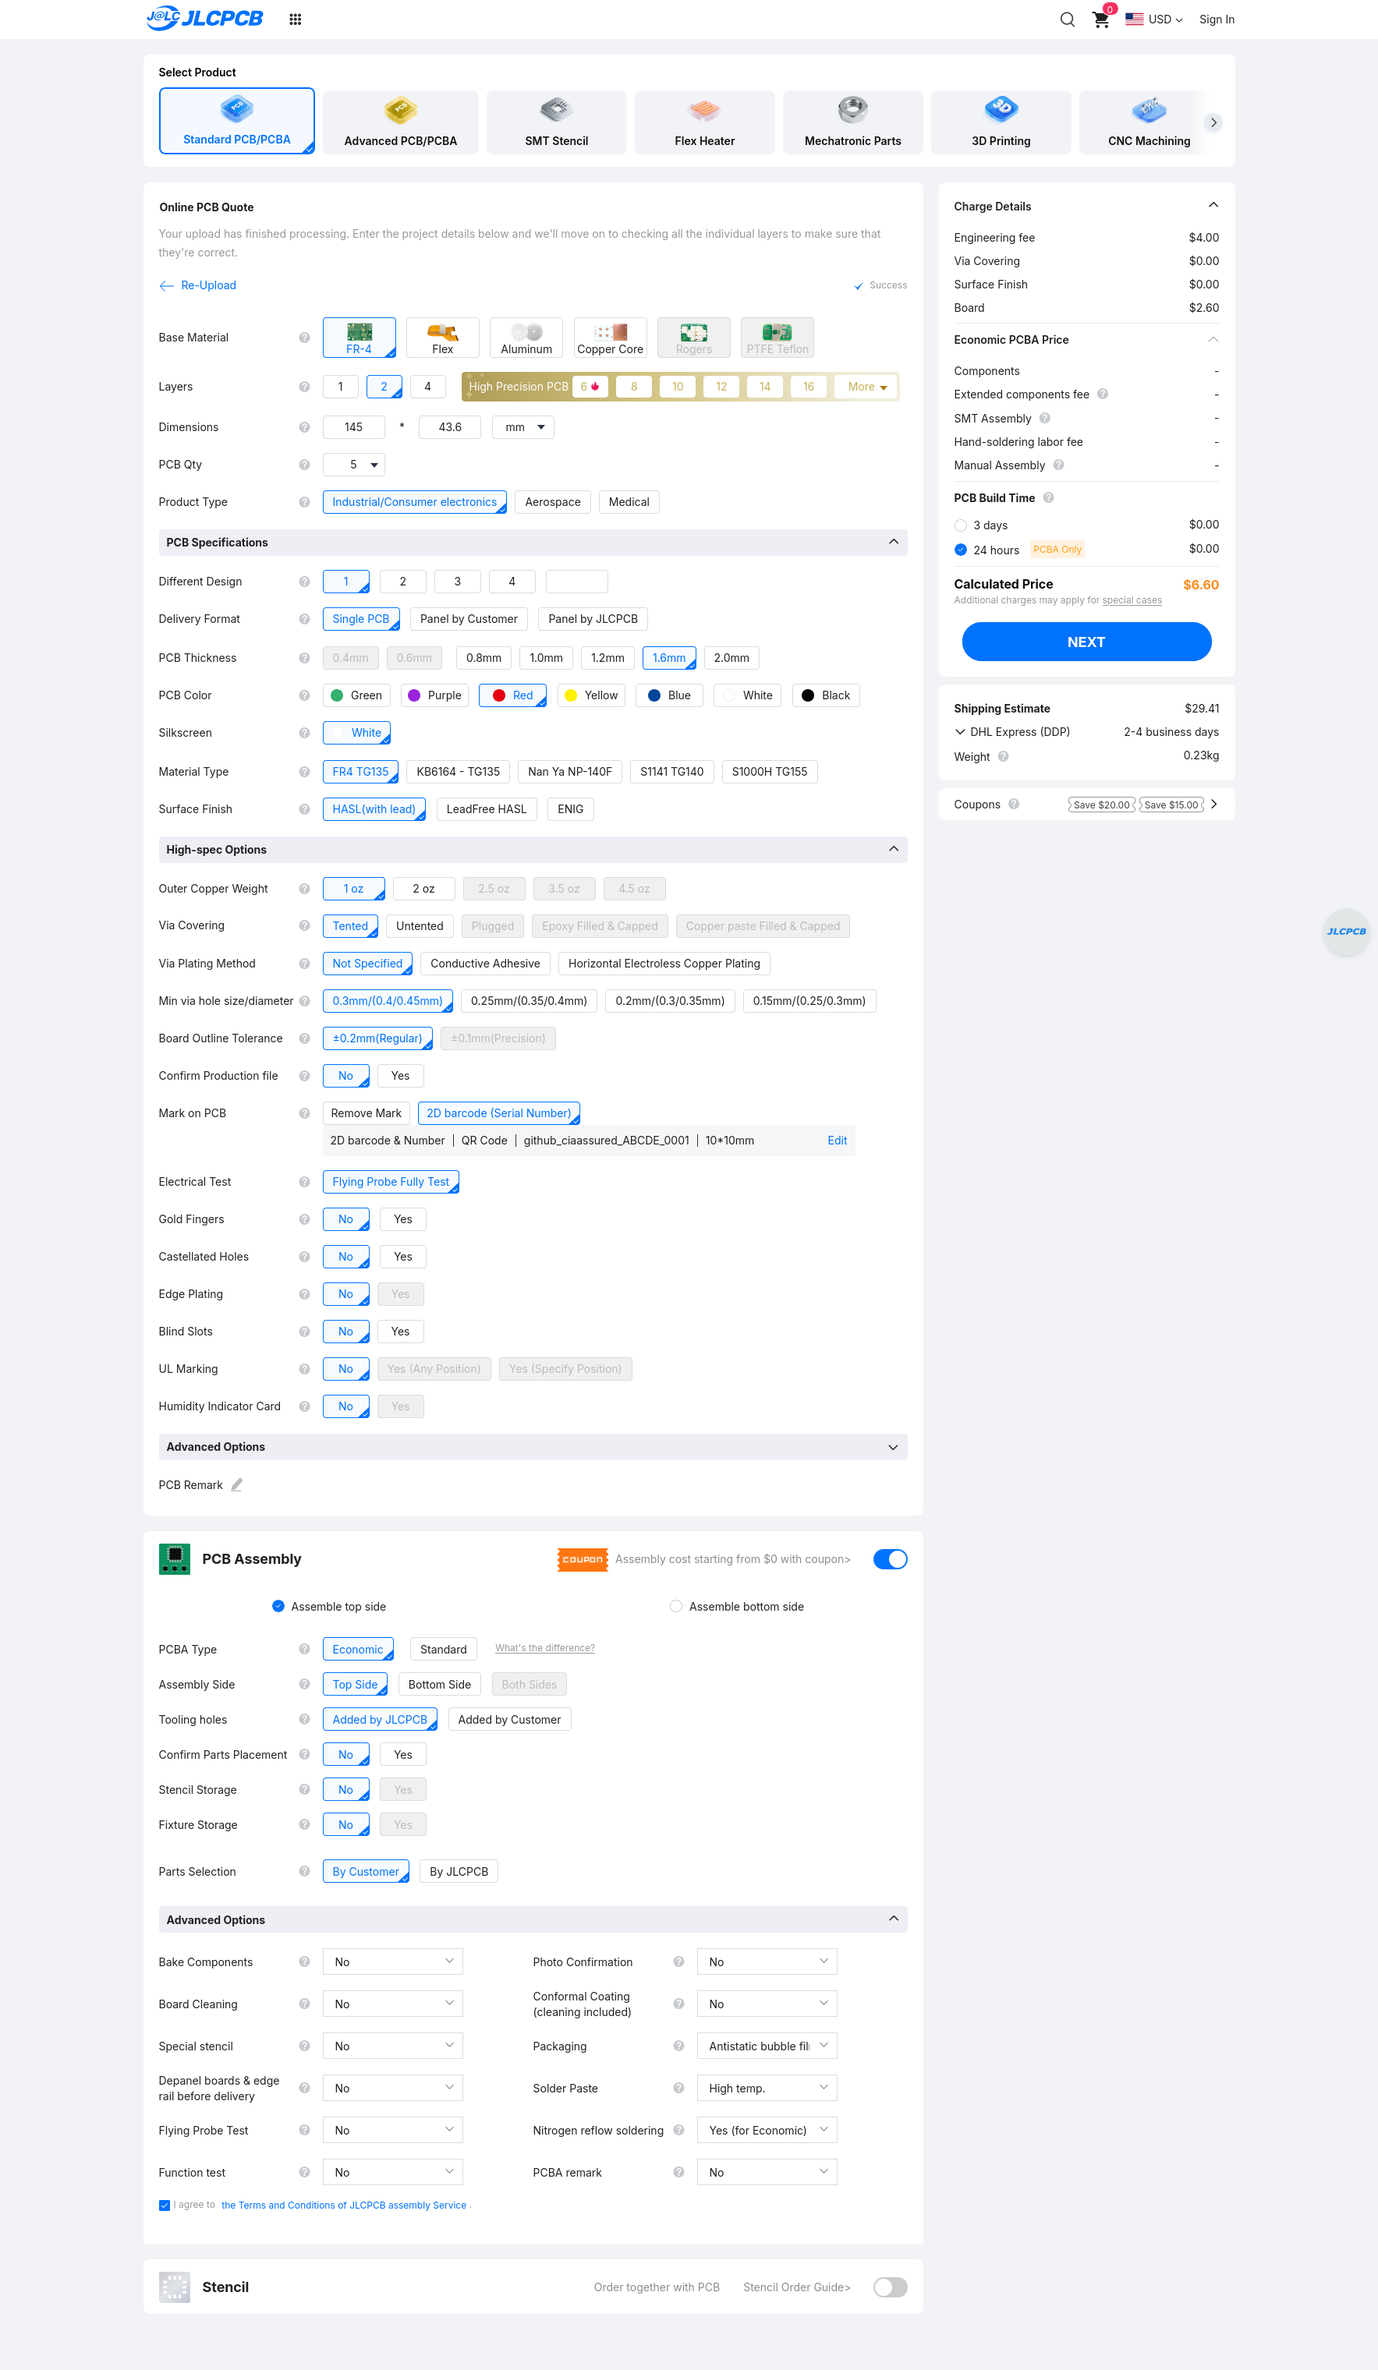
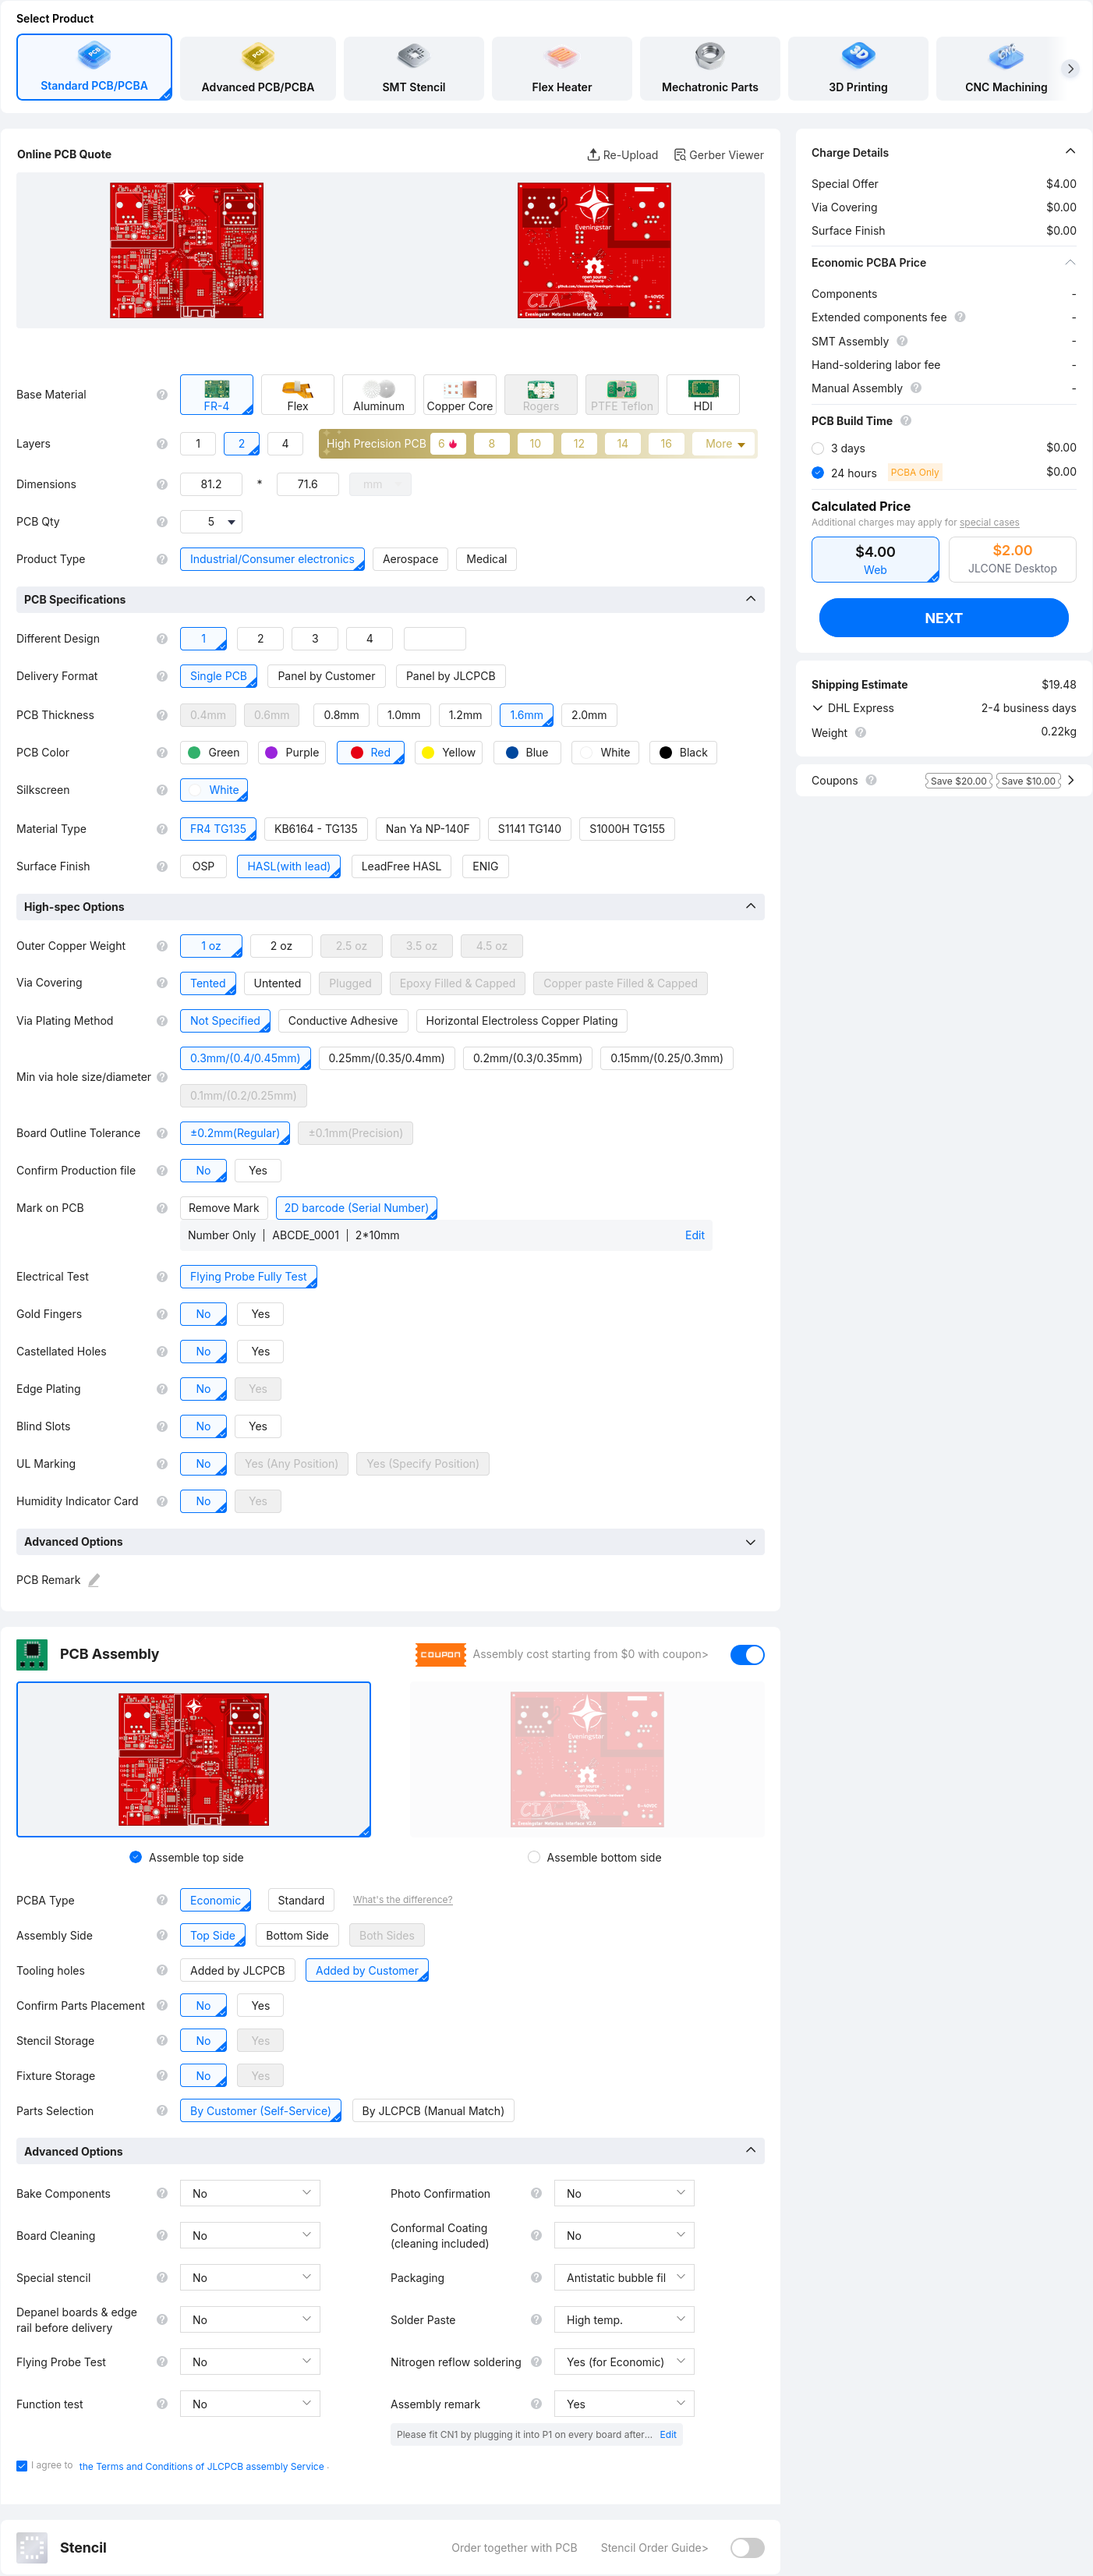
docs: update ordering docs

diff --git a/docs/jlcpcb_order.md b/docs/jlcpcb_order.md
@@ -4,17 +4,25 @@ This guide includes instructions on how to order an assembled PCB from [JLCPCB](
 
 ## Production files
 
-Use the production files attached to the GitHub release for the exact hardware
-tag being ordered. Releases up to v1.0.1 name them `EveningStar.zip`,
-`bom.csv`, and `positions.csv`. To generate the same payload from a checkout
-instead, run the following command from the repository root:
+Download the production files from the latest GitHub release:
+
+- [`EveningStar-gerbers.zip`](https://github.com/ciaassured/eveningstar-hardware/releases/latest/download/EveningStar-gerbers.zip)
+- [`EveningStar-bom.csv`](https://github.com/ciaassured/eveningstar-hardware/releases/latest/download/EveningStar-bom.csv)
+- [`EveningStar-cpl.csv`](https://github.com/ciaassured/eveningstar-hardware/releases/latest/download/EveningStar-cpl.csv)
+
+To order an older hardware version, take the files from that version's release
+instead. Releases up to v1.0.1 name them `EveningStar.zip`, `bom.csv`, and
+`positions.csv`.
+
+Alternatively, build them from a checkout of the tag being ordered by running
+the following command from the repository root:
 
 ```sh
-nix run .#production
+nix build .#production
 ```
 
-This links the files under `reports/production/`. Do not use manufacturing
-files from a different tag or an unreviewed working tree.
+This leaves the same files under `result/`. Do not use manufacturing files from
+a different tag or an unreviewed working tree.
 
 ## Instant Quote
 
@@ -22,8 +30,7 @@ files from a different tag or an unreviewed working tree.
 
 2. Sign In. You must sign in later anyway, and if you don't sign in now the form sometimes glitches out and changes options.
 
-3. Select **Add gerber file** and upload `reports/production/EveningStar.zip`
-   or `EveningStar-gerbers.zip` from the GitHub release.
+3. Select **Add gerber file** and upload `EveningStar-gerbers.zip`.
 
 4. Select the number of PCBs you want to order.
 
@@ -31,23 +38,33 @@ files from a different tag or an unreviewed working tree.
 
 6. Update **Mark on PCB** to **2D barcode (Serial Number)**.
 
-    1. Update **Printing** to **2D barcode & Number**.
+   1. Update **Printing** to **Number Only**.
 
-    2. Update **Prefix** to **github_ciaassured**.
+   2. Update **2D Barcode Position** to **Specify Position**.
 
-    3. Update **2D Barcode Size** to **10*10mm**.
-
-    4. Update **2D Barcode Position** to **Specify Position**.
+   3. Click **Submit**.
 
 7. Enable PCB Assembly.
 
 8. Update **Tooling holes** to **Added by Customer**
 
-9. Select desired lead-time and shipping options on the right-hand side-bar.
+9. Update **Assembly remark** to **Yes**
 
-10. Review options and compare with this [screenshot](/image/jlcpcb_quote_screenshot.png).
+   1. Enter the following remark
 
-11. Click **Next**.
+   ```plain
+   Please fit CN1 by plugging it into P1 on every board after soldering.
+
+   CN1 is the plug half of the pluggable terminal block (LCSC C8466, KANGNEX WJ15EDGK-3.81-02P-14-00A) and mates with the soldered header P1 (LCSC C8387, WJ15EDGRC-3.81-2P). CN1 is not soldered, so it is in the BOM but has no entry in the CPL file.
+
+   Please insert it fully.
+   ```
+
+10. Select desired lead-time and shipping options on the right-hand side-bar.
+
+11. Review options and compare with this [screenshot](/assets/jlcpcb_quote_screenshot.png).
+
+12. Click **Next**.
 
 ## Assembly Parts
 
@@ -61,16 +78,28 @@ At this point you should be looking at a render of the PCB with no parts.
 
 2. Click **NEXT**.
 
-3. Click **Add BOM File** and upload `reports/production/bom.csv` or
-   `EveningStar-bom.csv` from the release.
+3. Click **Add BOM File** and upload `EveningStar-bom.csv`.
 
-4. Click **Add CPL File** and upload `reports/production/positions.csv` or
-   `EveningStar-cpl.csv` from the release.
+4. Click **Add CPL File** and upload `EveningStar-cpl.csv`.
 
 5. Click **Process BOM & CPL**.
 
+> [!NOTE]
+> JLCPCB warns about CN1:
+>
+> ```plain
+> The below parts won't be assembled due to data missing.
+> CN1 designator don't exist in the CPL file.
+> ```
+>
+> This is expected. CN1 is the plug half of the pluggable terminal block. It
+> is not soldered, so it has no placement in the CPL file, and the assembly
+> remark asks JLCPCB to plug it into P1 instead.
+>
+> Ignore the warning and continue.
+
 6. At this point you should see a list of all the parts and how much they cost.
-It's important that all parts are selected otherwise they will be missing when you get your board.
+It's important that all parts are selected in the right hand column otherwise they will be missing when you get your board.
 
 If parts are missing un unavailable, substitutes must be found.
 

diff --git a/pcb/README.md b/pcb/README.md
@@ -155,10 +155,10 @@ because releases hold no folders:
 
 Names carry no version, so `releases/latest/download/<name>` always links the
 newest board, and the output depends only on the source rather than on the tag
-it is released under. The production files are the `.#production` payload
-renamed; its `designators.csv` is left out because it only repeats the BOM. The
-per-sheet and per-layer SVGs are review artifacts rather than release assets,
-built by `nix run .#review`.
+it is released under. The production files are the `.#production` payload, which
+uses the same names; the Toolkit's `designators.csv` is left out of both because
+it only repeats the BOM. The per-sheet and per-layer SVGs are review artifacts
+rather than release assets, built by `nix run .#review`.
 
 `nix build` exposes the Nix store output through `result`; the command form also links that immutable output at
 `reports/publish`. Because this is a derivation of the filtered PCB source and
@@ -178,21 +178,29 @@ eveningstar-production
 ```
 
 The production payload contains the Gerber/drill archive, BOM, placement list,
-designator counts, and IPC-D-356 netlist. Its settings pin the Fabrication
-Toolkit 5.3.1 JLCPCB placement translations used for V1. The build runs DRC and
-schematic-parity validation, then plots the zone fills committed in the KiCad
-board without refilling them. Fill and save zones in the pinned KiCad editor
-after relevant design changes; plotting the reviewed stored fills avoids
-nondeterministic polygon decomposition between independent KiCad processes.
-Project-specific corrections live as hidden `FT Rotation Offset` fields on the
-affected KiCad footprints; update them only after checking component pin 1
-orientation against the datasheet and assembly preview. Generated timestamps,
-ZIP entry metadata, permissions, and file order are normalized for reproducible
-builds. The Toolkit source revision is pinned by the root `flake.lock` alongside
-KiCad and the rest of the toolchain.
-KiCad provides the underlying fabrication exporters; the pinned Toolkit is
-retained for its JLCPCB-specific component-origin and rotation translations and
-for compatibility with the production process used for the original board.
+and IPC-D-356 netlist, under the same names as the GitHub release. Its settings
+pin the Fabrication Toolkit 5.3.1 JLCPCB placement translations used for V1. The
+build runs DRC and schematic-parity validation, then plots the zone fills
+committed in the KiCad board without refilling them. Fill and save zones in the
+pinned KiCad editor after relevant design changes; plotting the reviewed stored
+fills avoids nondeterministic polygon decomposition between independent KiCad
+processes. Project-specific corrections live as hidden `FT Rotation Offset`
+fields on the affected KiCad footprints; update them only after checking
+component pin 1 orientation against the datasheet and assembly preview. The
+Toolkit's built-in rotations match footprint names by pattern, such as
+`^SOT-23`, and are meant for KiCad's standard footprints, so EasyEDA-named
+footprints that happen to match, such as D7's
+`SOT-23-3_L3.0-W1.7-P0.95-LS2.9-BR`, carry a 180° offset that cancels them.
+Through-hole parts are placed at the centre of their pads unless `FT Origin` is
+`Anchor`, which RJ2 uses because JLCPCB's model for it sits on the footprint
+anchor. U1's SOT-89 counts as through-hole because its tab has plated holes, so
+it needs the same. Generated timestamps, ZIP entry metadata, permissions, and
+file order are normalized for reproducible builds. The Toolkit source revision
+is pinned by the root `flake.lock` alongside KiCad and the rest of the
+toolchain. KiCad provides the underlying fabrication exporters; the pinned
+Toolkit is retained for its JLCPCB-specific component-origin and rotation
+translations and for compatibility with the production process used for the
+original board.
 
 Production files are build artifacts and are not committed. Local output is
 ignored under `pcb/production` and `reports`; published manufacturing files
